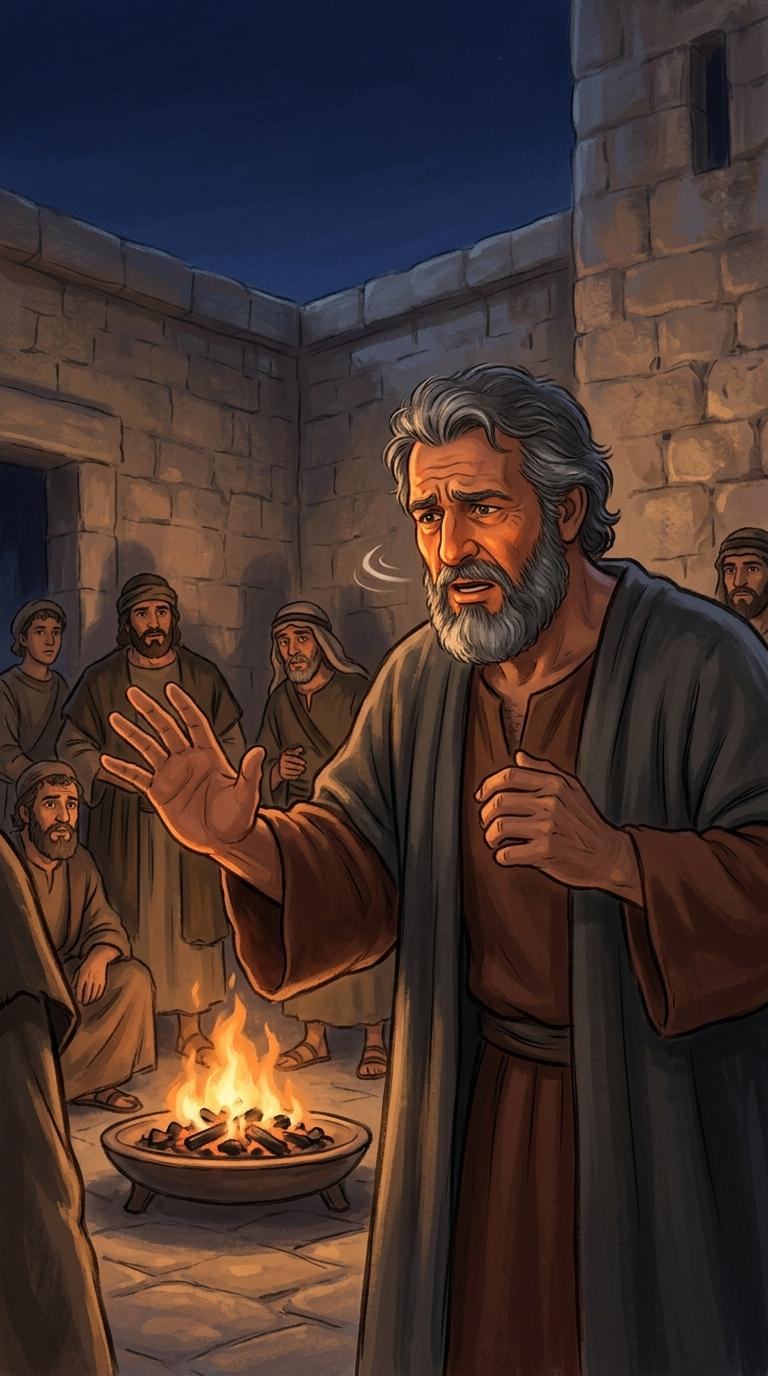
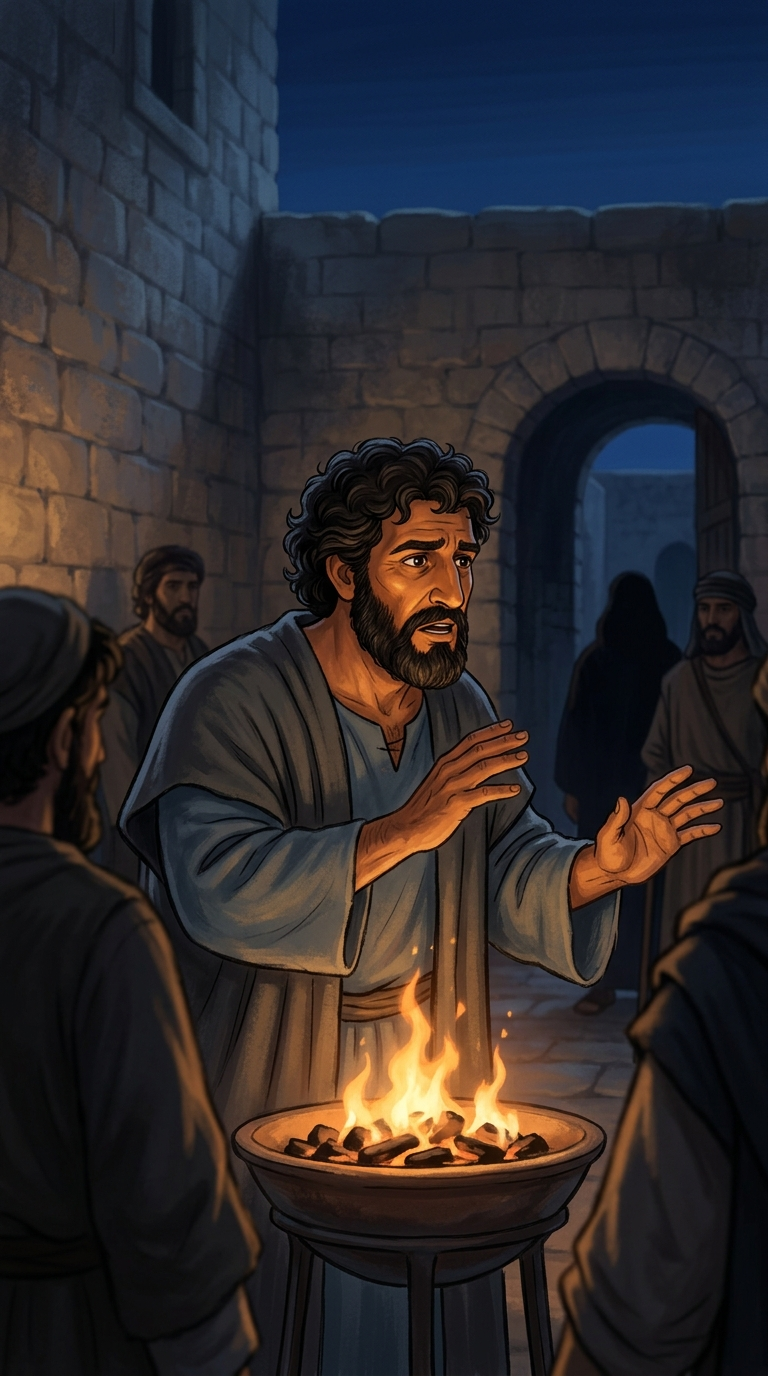
STILLS #92 peters-denial: Peter lock 'about fifty/grey' -> canonical mid-30s dark-curled blue-grey + regen s3/s6 (Machine C)

diff --git a/media-production/build-92-peters-denial/PROMPTS.md b/media-production/build-92-peters-denial/PROMPTS.md
@@ -31,11 +31,11 @@ single arched gate, a low charcoal fire in a shallow brazier at its center, cold
 deep-blue night above the walls, the only warmth the small orange firelight.
 Servants and guards in dark earth tones cluster near the fire.
 
-[PETER LOCK] = Peter, the same man in every picture he appears in: a stocky,
-broad-shouldered Middle Eastern Jewish fisherman of about fifty, weathered
-sun-browned face, a FULL hairline of thick curly dark hair streaked with grey, a
-full grey-streaked dark beard, deep-set dark eyes, a dark rust-brown wool tunic
-with a charcoal-grey mantle (never cream). He appears EXACTLY ONCE in any frame;
+[PETER LOCK] = Peter, the same man in every picture he appears in (the locked cast
+Peter): a stocky, broad-shouldered Middle Eastern Jewish fisherman of about thirty-five,
+weathered sun-browned face, a FULL head of thick dark CURLY hair (not grey), a full dark
+beard, deep-set dark eyes, his BLUE-GREY wool tunic under a charcoal-grey mantle (never
+cream) — the same man as the attached peter reference. He appears EXACTLY ONCE in any frame;
 no other figure in the frame resembles him.
 
 [BYSTANDERS LOCK] = the servants and guards are ordinary Middle Eastern men and
